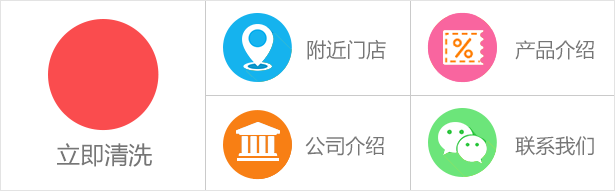
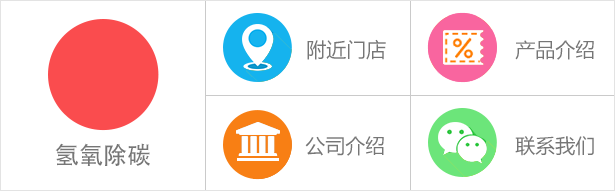
slide style

Changed region(s): [[0.0927, 0.733, 0.2472, 0.8901]]

diff --git a/App/Home/View/default/Index/index.tpl.html b/App/Home/View/default/Index/index.tpl.html
@@ -5,15 +5,20 @@
 <script src="__PUBLIC__/Home/js/index.js" type="text/javascript"></script>
     <body ontouchstart>
       <h3 style="position:relative;">
-        <div class="ui-slider" style="height:180px">
-            <ul class="ui-slider-content" style="width: 300%">
-                <li class="current"><span 
-                    style="background-image:url(__PUBLIC__/Home/img/banner.jpg);
-                    background-size:cover;background-position:center;"></span></li>
-                <li><span style="background-image:url(__PUBLIC__/Home/img/banner.jpg);
-                    background-size:cover;background-position:center;"></span></li>
-                <li><span style="background-image:url(__PUBLIC__/Home/img/banner.jpg);
-                    background-size:cover;background-position:center;"></span></li>
+        <div class="ui-slider" style="display:inline-block;
+        overflow:auto;padding-top:0;">
+        <?php
+            $_slideArr = array(
+                    "banner.jpg","banner_2.jpg"
+                );
+        ?>
+            <ul class="ui-slider-content" style="position:relative;">
+                {{volist name="_slideArr" id="r"}}
+                <li style="height:auto;overflow:hidden;"><span 
+                    style="background-image:url(__PUBLIC__/Home/img/{{$r}});height:auto;
+                    background-size:cover;background-position:center center;"><img 
+                    src="__PUBLIC__/Home/img/40_18.png" width="100%;float:left;"></span></li>
+                {{/volist}}
             </ul>
         </div>
         <div class="ui-badge" style="position:absolute;bottom:10px;

diff --git a/App/Home/View/default/my/profile.tpl.html b/App/Home/View/default/my/profile.tpl.html
@@ -9,15 +9,15 @@
     })
 </script>
         <section class="ui-container my-base-warp">
-            
-            <ul class="ui-row my-base-info">
-                <li class="ui-col t-center">
-                    <span class="ui-avatar-lg">
-                        <img style="width:100%;height:100%;"
-                            src="{{if condition="$my_info['head_img'] neq ''"}}{{$my_info.head_img|showPic}}{{else/}}__PUBLIC__/Home/img/head_img.png{{/if}}" >
-                    </span>
-                </li>
-            </ul>
+            <h3 class="" style="padding:30px 0;text-align:center;height: 165px;position:relative;
+              border-bottom:1px solid #999;
+              background:url(__PUBLIC__/Home/img/banner.jpg) no-repeat center;background-size:cover;">
+                    <div class="ui-col t-center">
+                        <span class="ui-avatar-lg" style="display:inline-block;">
+                            <img src="{{if condition="$my_info['head_img'] neq ''"}}{{$my_info.head_img|showPic}}{{else/}}__PUBLIC__/Home/img/head_img.png{{/if}}" >
+                        </span>
+                    </div>
+              </h3>
             <form id="profileForm" action="?" method="POST">
             <div class="my-index-list">
                 <div class="ui-grp-my ui-form ui-border-t">

diff --git a/App/Home/View/default/Public/footer.tpl.html b/App/Home/View/default/Public/footer.tpl.html
@@ -4,7 +4,7 @@
                 <li data-href="{{:U('/Index')}}" class="act-all {{eq name='CTR_NAME' value='Index'}}curr{{/eq}}"><i class="fa fa-home"></i><div><span>首页</span></div></li>
                 <li data-href="{{:U('/Merchants')}}" class=" act-mine {{eq name='CTR_NAME' value='Merchants'}}curr{{/eq}}"><i class="fa fa-calendar"></i><div><span>门店</span></div></li>
                 <li data-href="{{:U('/Cylinder')}}" class="act-scan {{eq name='CTR_NAME' value='Cylinder'}}curr{{/eq}}"
-                 id="qr-scan"><i class="fa fa-tint"></i><div><span>清洗</span></div></li>
+                 id="qr-scan"><i class="fa fa-tint"></i><div><span>{{$CLEAN_PRO['title_s']}}</span></div></li>
                 <li data-href="{{:U('/Article')}}" class=" act-all {{eq name='CTR_NAME' value='Article'}}curr{{/eq}}"><i class="fa fa-newspaper-o"></i><div><span>资讯</span></div></li>
                 <li data-href="{{:U('/My')}}" class="act-setting  {{eq name='CTR_NAME' value='My'}}curr{{/eq}}"><i class="fa fa-user"></i><div><span>我的</span></div></li>
             </ul>

diff --git a/App/Home/View/default/Cylinder/index.tpl.html b/App/Home/View/default/Cylinder/index.tpl.html
@@ -12,9 +12,10 @@
 <script>baidu_map_ak = "{{$map_baidu_key}}"</script>
 <script src="__PUBLIC__/Home/js/cylinder.js?r={{:mt_rand()}}" type="text/javascript"></script>
     <body ontouchstart style="background-color:#f9f9f9;">
-      <h3 class="" style="padding:30px 0;text-align:center;height: 125px;position:relative;
-      border-bottom:1px solid #999;
+      <h3 class="" style="text-align:center;position:relative;
+      border-bottom:1px solid #999;display:inline-block;width:100%;
       background:url(__PUBLIC__/Home/img/banner.jpg) no-repeat center;background-size:cover;">
+        <img src="__PUBLIC__/Home/img/40_18.png" style="width:100%;float:left;">
         <span class="ui-avatar-lg" 
         style="display:inline-block;position:absolute;bottom:-35px;left:50%;margin-left:-35px;">
             <img src="{{if condition="$my_info['head_img'] neq ''"}}{{$my_info.head_img|showPic}}{{else/}}__PUBLIC__/Home/img/head_img.png{{/if}}" style="max-width:100%;" >

diff --git a/App/Home/View/default/my/order.tpl.html b/App/Home/View/default/my/order.tpl.html
@@ -12,7 +12,8 @@
         
         <h4 class="to-inside-content-header to-link-tab">
             <a href="?order_type={{$clean_type}}"
-             class="{{eq name="order_type" value="$clean_type"}}active{{/eq}}">清洗订单</a>
+             class="{{eq name="order_type" value="$clean_type"}}active{{/eq}}">
+             {{$CLEAN_PRO['title_s']}}订单</a>
             <!--a href="?order_type=product" class="{{eq name="order_type" value="product"}}active{{/eq}}">产品</a-->
             <ul class="order_menu_ul">
                 <li class='status_warp'>

diff --git a/App/Admin/View/default/Order/index.tpl.html b/App/Admin/View/default/Order/index.tpl.html
@@ -11,7 +11,7 @@
     <h1>
          <a href="{{:U('/Order/index',array("order_type"=>$CLEAN_FORM))}}">
              <button class="btn 
-                {{eq name="order_type" value="$CLEAN_FORM"}}btn-primary{{else /}}btn-default{{/eq}} btn-xs"> 发动机清洗订单 </button></a>
+                {{eq name="order_type" value="$CLEAN_FORM"}}btn-primary{{else /}}btn-default{{/eq}} btn-xs"> {{$CLEAN_PRO['title']}}订单 </button></a>
     </h1>
     <ol class="breadcrumb">
         <li><a href="#"><i class="fa fa-dashboard"></i> 订单</a></li>

diff --git a/App/Home/View/default/my/car.tpl.html b/App/Home/View/default/my/car.tpl.html
@@ -10,7 +10,7 @@
 .empty-blk {background-color:#fff;padding:15px 0;text-align:center;margin-top: 5px;font-size: 1.3em;}
 </style>
     <body ontouchstart style="background-color:#f9f9f9;">
-      <h3 class="" style="padding:30px 0;text-align:center;height: 125px;position:relative;
+      <h3 class="" style="padding:30px 0;text-align:center;height: 155px;position:relative;
       border-bottom:1px solid #999;
       background:url(__PUBLIC__/Home/img/banner.jpg) no-repeat center;background-size:cover;">
         

diff --git a/App/Home/View/default/my/index.tpl.html b/App/Home/View/default/my/index.tpl.html
@@ -3,7 +3,7 @@
     
 
         <section class="ui-container my-base-warp">
-            <h3 class="" style="padding:30px 0;text-align:center;height: 155px;position:relative;
+            <h3 class="" style="padding:30px 0;text-align:center;height: 165px;position:relative;
               border-bottom:1px solid #999;
               background:url(__PUBLIC__/Home/img/banner.jpg) no-repeat center;background-size:cover;">
                     <div class="ui-col t-center">

diff --git a/App/Common/Model/product/ProductModel.class.php b/App/Common/Model/product/ProductModel.class.php
@@ -15,7 +15,8 @@ class ProductModel extends \Common\Model\BaseModel{
             'key' => C("CLEAN_FORM"),
             'type' => C("CLEAN_FORM"),
             'pid' => 0,
-            'title' => '发动机清洗'
+            'title' => '氢氧除碳',
+            'title_s' => '除碳'
          );
     }
     
